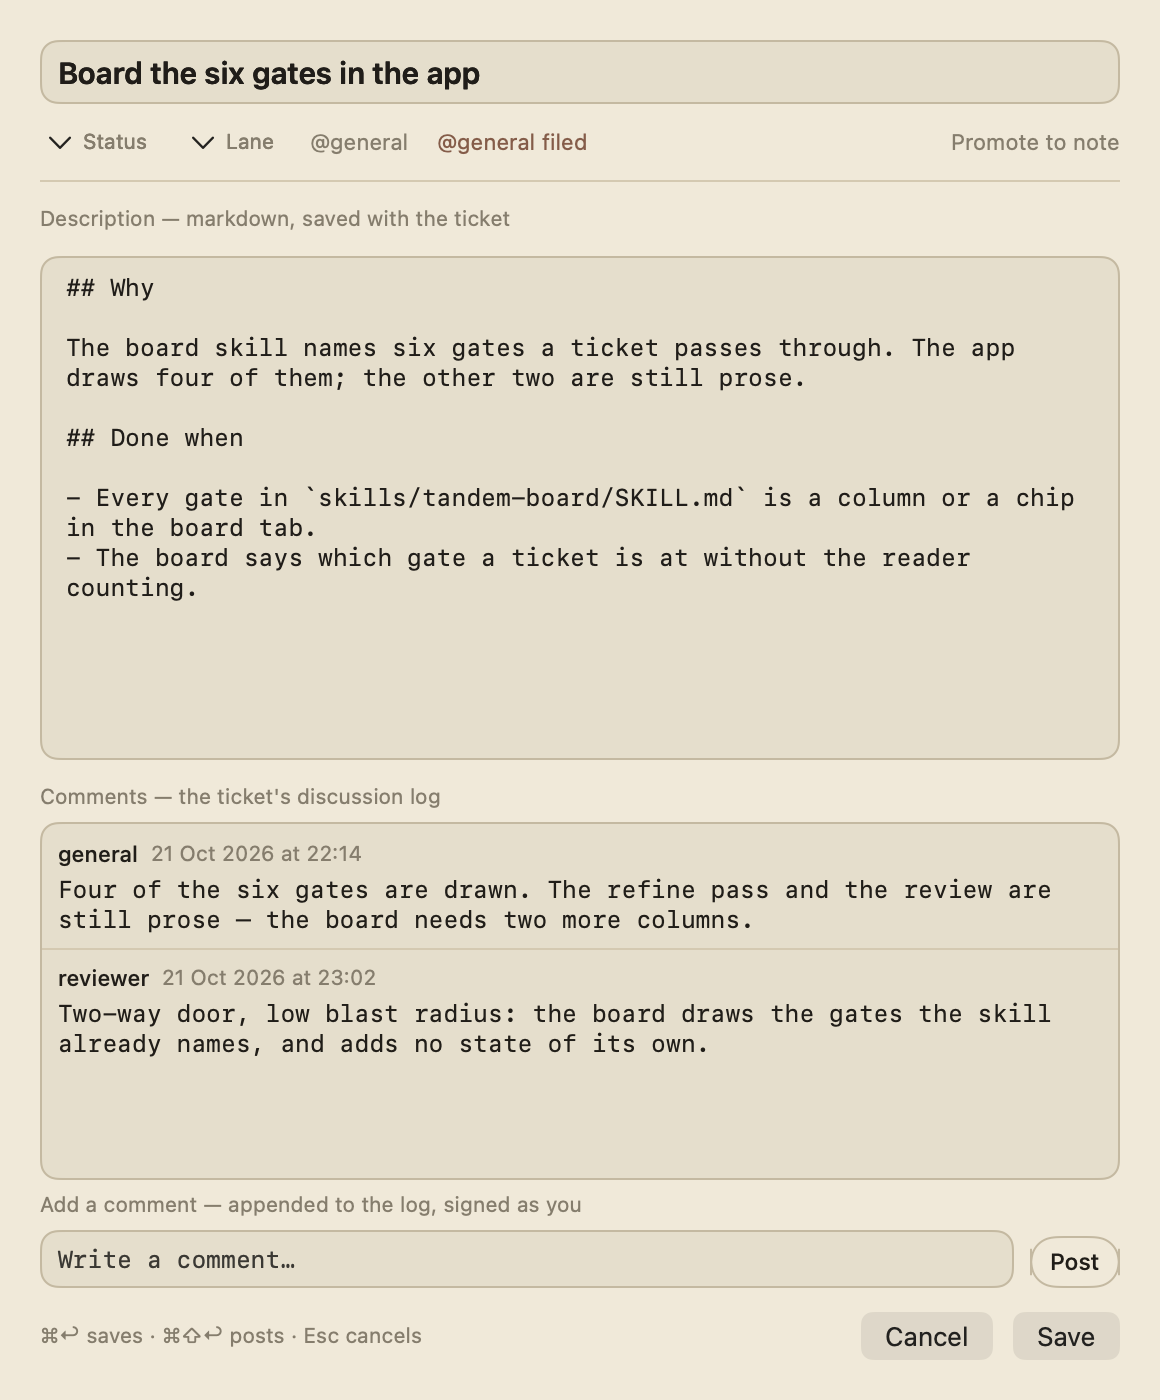
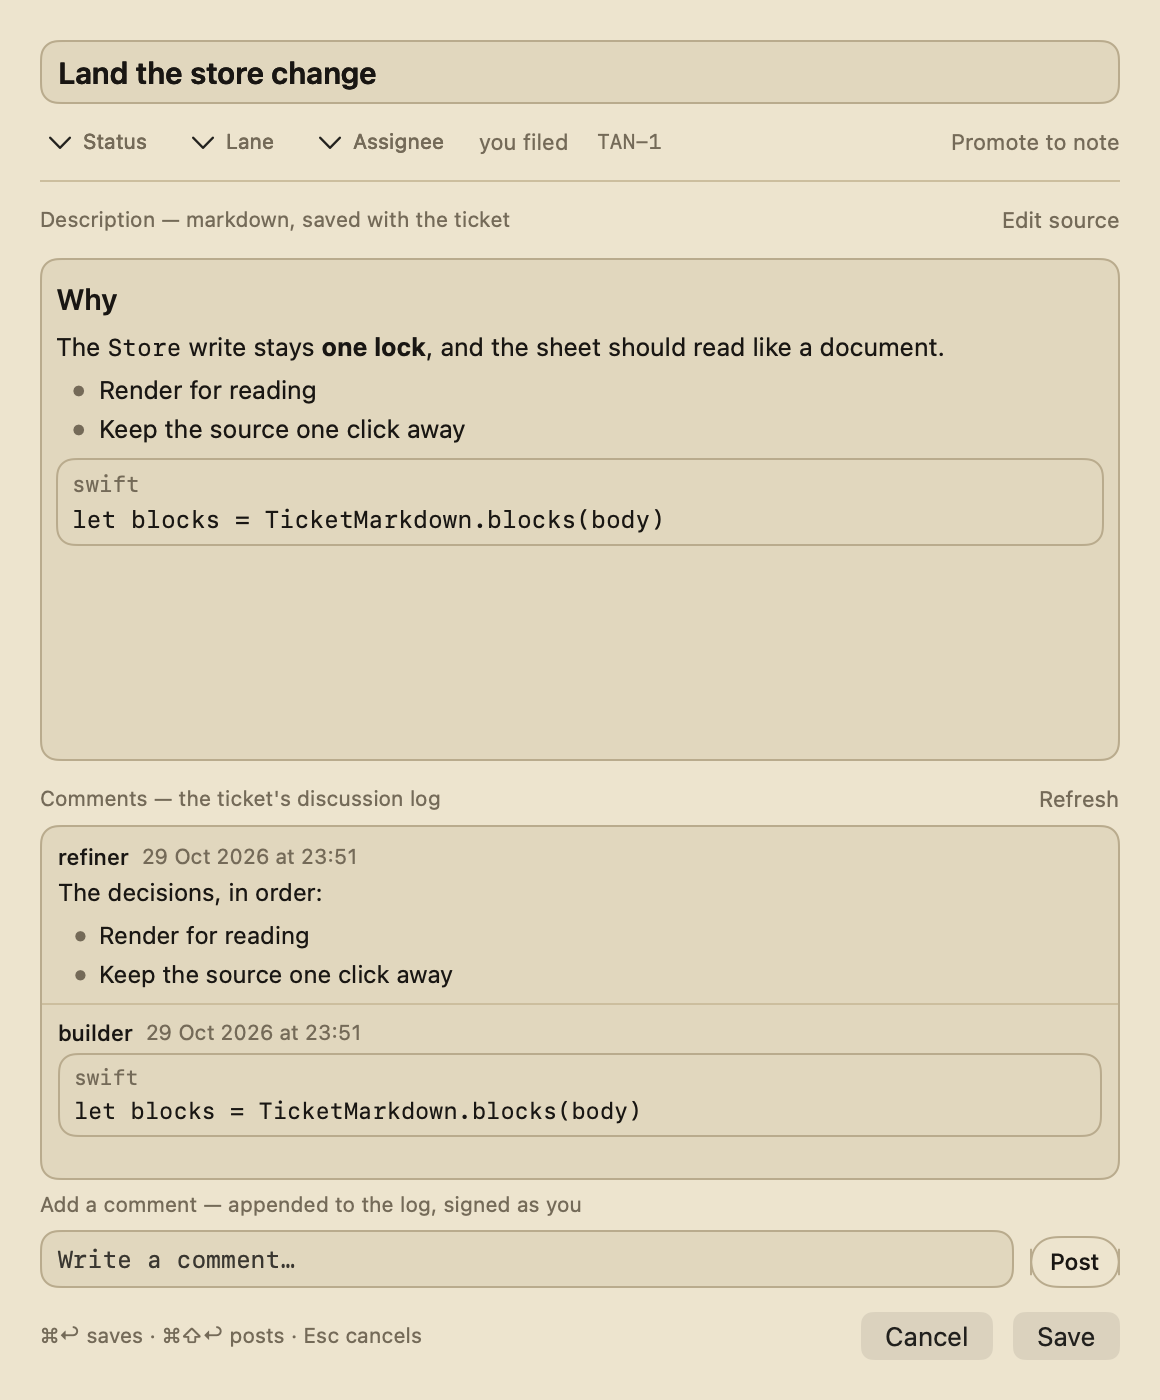
scripts: shot.m's bitmap takes the view's bounds, so a picture fills its frame
`cacheDisplay` draws one point per pixel, and the rep was `bounds * scale`
points wide, so every capture landed in the bottom-left quarter of its PNG
(the tool has never produced a filled image; the committed shots predate it).

Re-shot through the fixed tool against a fixture home: `ticket-sheet.png`
now shows the rendered sheet, and `ticket-sheet-source.png` the same ticket
under `Edit source`.

diff --git a/Scripts/shot.m b/Scripts/shot.m
@@ -49,6 +49,11 @@ int tandem_shot(long windowNumber, const char *pngPath) {
     return 1;
   }
 
+  // The rep's size in points is the view's bounds, not its pixel count: without
+  // this line the rep is `bounds * scale` points wide, and cacheDisplay draws the
+  // view at one point per pixel into the bottom-left quarter of the bitmap.
+  rep.size = bounds;
+
   [view cacheDisplayInRect:view.bounds toBitmapImageRep:rep];
   NSData *png = [rep representationUsingType:NSBitmapImageFileTypePNG properties:@{}];
   if (!png || ![png writeToFile:@(pngPath) atomically:YES]) {

diff --git a/docs/screenshots/README.md b/docs/screenshots/README.md
@@ -24,7 +24,8 @@ fixture home. A refusal exits non-zero and writes nothing.
 | `tickets-tab.png` | the main window's **Tickets** tab: the quick-add, the Open/Done/All/Archived counts, the search field and the lane-grouped list |
 | `tickets-search-empty.png` | the same tab with a search that matches nothing — "No ticket title matches your search." |
 | `board.png` | the **Board** view: Status columns across, cycle lanes down, a ticket drawn where its Status and lane meet |
-| `ticket-sheet.png` | the ticket sheet: the title, the Status and lane, the description, the ticket's comment log, and the composer the human writes in |
+| `ticket-sheet.png` | the ticket sheet: the title, the Status and lane, the description rendered from its markdown (headings, bullets, a code block), the ticket's comment log, and the composer the human writes in |
+| `ticket-sheet-source.png` | the same sheet with `Edit source` on: the stored markdown in the monospaced field, the toggle reading `Preview` |
 | `bikeshed-send-to-tickets.png` | the Bikeshed face with a note open: the title bar's **Send to tickets** button |
 | `bikeshed.png` | the Bikeshed face with a note open: the notes tree, the editor, the backlinks and the Health panel |
 | `sessions-tab.png` | the main window's **Sessions** tab: the session records grouped by project, a `running` one and an `ended · succeeded` one |
